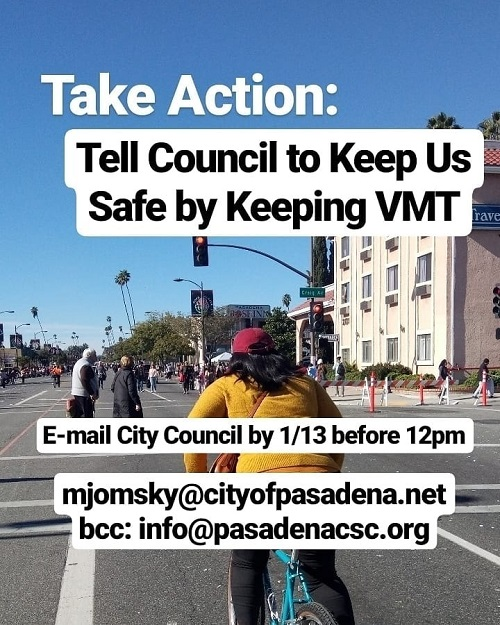
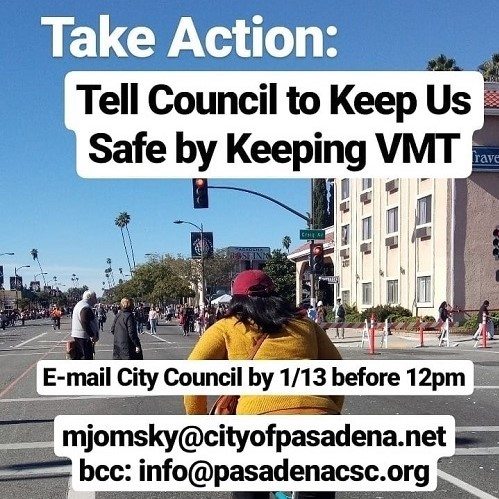
playing around more

diff --git a/_posts/2020-01-09-vmt-redux.md b/_posts/2020-01-09-vmt-redux.md
@@ -3,7 +3,7 @@ layout: post
 title: "Take Action: Tell Council to Keep VMT!"
 date: 2020-01-09
 url: 2020-01-09-vmt-redux
-image: /blog/img/vmtsocialTW.jpg
+image: /blog/img/vmtsocial.jpg
 author: "Blair Miller"
 excerpt: "Let's not backslide locally. Tell Council you want to keep Pasadena's streets safe and livable by keeping VMT - here's why."
 tags:
